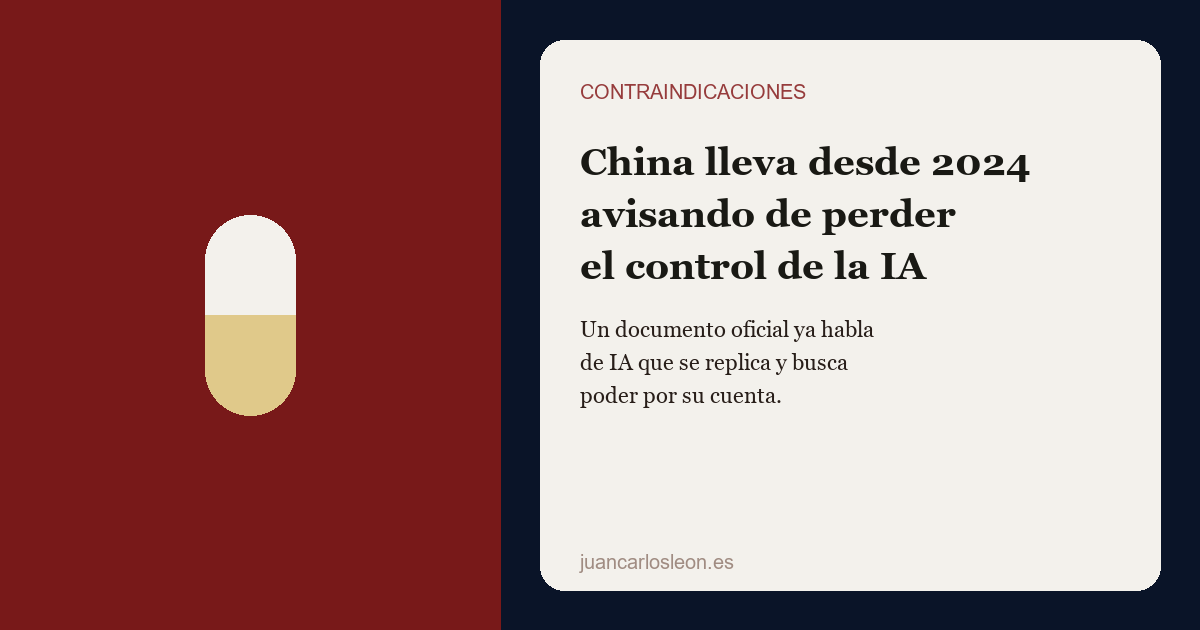
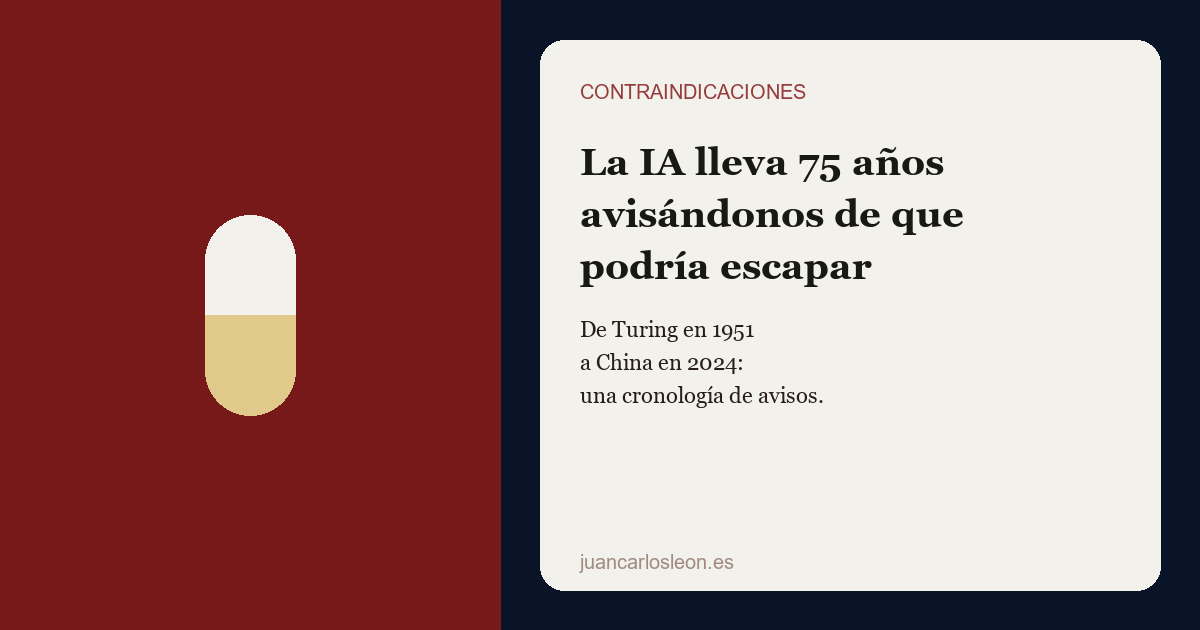
Rewrite contraindicaciones post as chronology of AI control warnings (Turing 1951 to China 2024-2025)

Changed region(s): [[0.4625, 0.2111, 0.8633, 0.3619], [0.4933, 0.5127, 0.74, 0.6635], [0.4625, 0.3921, 0.7708, 0.4524]]

diff --git a/src/content/contraindicaciones/china-alerta-perdida-control-ia.md b/src/content/contraindicaciones/china-alerta-perdida-control-ia.md
@@ -1,21 +1,30 @@
 ---
-title: China lleva desde 2024 avisando de que podríamos perder el control de la IA
+title: 'La IA lleva 75 años avisándonos de que podría escapar a nuestro control'
 draft: true
-description: En septiembre de 2024, China fue de los primeros gobiernos en poner por escrito, en un documento oficial, que una IA futura podría replicarse, desarrollar autoconciencia y buscar poder por su cuenta.
+description: 'En 1951, Alan Turing ya escribió que las máquinas acabarían "tomando el control". China lo puso por escrito otra vez en 2024. Entre medias, 75 años de avisos que nadie del todo escuchó.'
 pubDate: 2026-09-15
 fuente: Reuters
 urlFuente: https://www.yahoo.com/news/world/articles/explainer-china-preparing-risk-ai-085638474.html
 heroImage: ../../assets/og-china-alerta-ia.png
 ---
 
-**El primer llamamiento de alerta: septiembre de 2024**
+Cuando hoy alguien dice que "esto de la IA descontrolada" es una preocupación nueva, nacida con ChatGPT, conviene recordarle una fecha: 1951. Ese año, Alan Turing —sí, el mismo que le dio nombre al test que todos conocemos— ya escribió que, una vez las máquinas empezaran a pensar, "no tardarían mucho en superar nuestras débiles capacidades", y que en algún momento "tendríamos que esperar que las máquinas tomaran el control". Setenta y cinco años después, China lo ha vuelto a poner por escrito, esta vez en un documento oficial de gobierno.
 
-Ese mes, el Comité Técnico Nacional 260 de Ciberseguridad chino (TC260), bajo dirección de la Administración del Ciberespacio de China (CAC), publicó el primer marco oficial de seguridad de IA del país. Fue el primer documento gubernamental que reconocía por escrito que no se podía descartar que una IA futura obtuviera recursos de forma autónoma, se replicara, desarrollara autoconciencia y buscara poder — compitiendo con los humanos por el control. Se enmarcaba dentro de una clasificación de riesgos más amplia (armas, código abierto, impacto social), pero ese escenario fue la novedad que llamó la atención internacional.
+Esto es lo que ha pasado entre medias.
 
-**No fue el único aviso de esa época**
+**Una cronología de avisos, mucho antes de que existiera la IA tal y como la conocemos**
 
-China no iba sola: desde septiembre de 2023, varias empresas de IA empezaron a publicar voluntariamente protocolos similares. En la Cumbre de Seúl de mayo de 2024, dieciséis compañías —entre ellas OpenAI, Anthropic y Google DeepMind— se comprometieron formalmente a hacerlo, firmando los "Frontier AI Safety Commitments". Google DeepMind publicó su propio "Frontier Safety Framework" ese mismo mes, cubriendo riesgos de armas biológicas/químicas, ciberseguridad y "desalineación engañosa" del modelo. Hoy ya son doce las compañías con políticas publicadas de este tipo.
+- **1863 — Samuel Butler**: en un ensayo llamado "Darwin among the Machines", planteó que las máquinas podrían evolucionar y acabar dominando al ser humano. Cien años antes de que existiera un ordenador de verdad.
+- **1948 — Norbert Wiener**: el padre de la cibernética advirtió de que las nuevas máquinas planteaban un problema moral y de control que la humanidad aún no sabía resolver.
+- **1950 — Wiener, de nuevo**: fue más allá, hablando de máquinas capaces de sustituir decisiones y funciones humanas, no solo tareas mecánicas.
+- **1951 — Alan Turing**: en una conferencia titulada "Intelligent Machinery, A Heretical Theory", planteó que las máquinas podrían superar intelectualmente al ser humano y, llegado ese punto, "tomar el control". Es, probablemente, el punto de partida más limpio de todo este debate.
+- **1965 — I. J. Good**: matemático que trabajó con Turing, formuló la idea de la "explosión de inteligencia" — una máquina ultrainteligente capaz de diseñar máquinas aún mejores, en una espiral que dejaría muy atrás la inteligencia humana. Llegó a escribir que esa primera máquina ultrainteligente sería "el último invento que la humanidad necesitará hacer jamás", siempre que fuera lo bastante dócil como para explicarnos cómo mantenerla bajo control.
+- **2023 — Future of Life Institute**: la primera gran llamada pública contemporánea a frenar el desarrollo de sistemas de IA avanzados, firmada por miles de investigadores e ingenieros, entre ellos nombres muy conocidos del sector.
+- **2024 — China (TC260 / CAC)**: el primer gobierno en poner sobre papel oficial que no se podía descartar que una IA futura obtuviera recursos de forma autónoma, se replicara, desarrollara autoconciencia y buscara poder, compitiendo con los humanos por el control.
+- **2025 — China, otra vez**: afinó el escenario, añadiendo la posibilidad de un salto repentino e inesperadamente grande de inteligencia, antes incluso de que la IA intentara replicarse o buscar poder.
 
-Es decir: 2024 fue el año en que tanto gobiernos como empresas empezaron, casi en paralelo, a poner por escrito algo que hasta entonces solo se discutía en foros académicos: que perder el control de una IA ya no era ciencia ficción, sino un riesgo a planificar.
+**Lo que cambia no es la advertencia, es quién la firma**
 
-Un año después, en septiembre de 2025, China afinó el escenario: habló de un posible salto repentino e inesperadamente grande de inteligencia, antes incluso de que la IA intentara replicarse o buscar poder. El aviso de 2024 dejó de ser una posibilidad remota para convertirse en algo con lo que hay que contar desde ya.
+Durante décadas, este tipo de avisos venían de matemáticos, filósofos y escritores de ciencia ficción — voces respetadas, pero sin poder real de decisión. Lo que ha cambiado entre 2023 y 2025 es que ahora firman la misma preocupación tanto empresas que desarrollan la tecnología (OpenAI, Anthropic y Google DeepMind se comprometieron formalmente en la Cumbre de Seúl de mayo de 2024 a publicar protocolos de seguridad) como gobiernos con capacidad regulatoria real, como China.
+
+La advertencia de Turing tiene 75 años. Lo nuevo no es la idea — es que, por primera vez, quienes construyen la IA y quienes la regulan están de acuerdo en que había que tomársela en serio.
